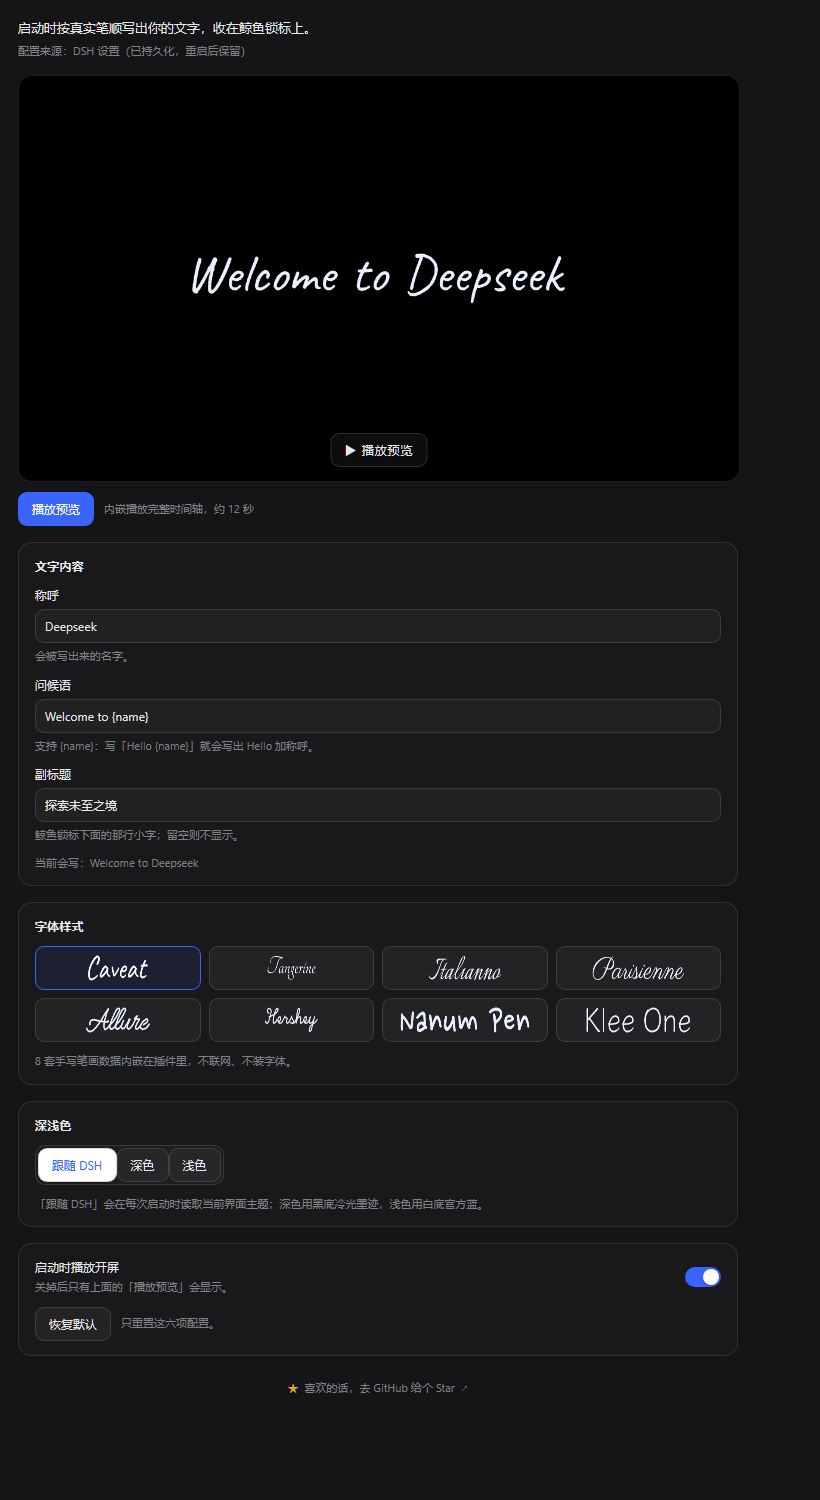
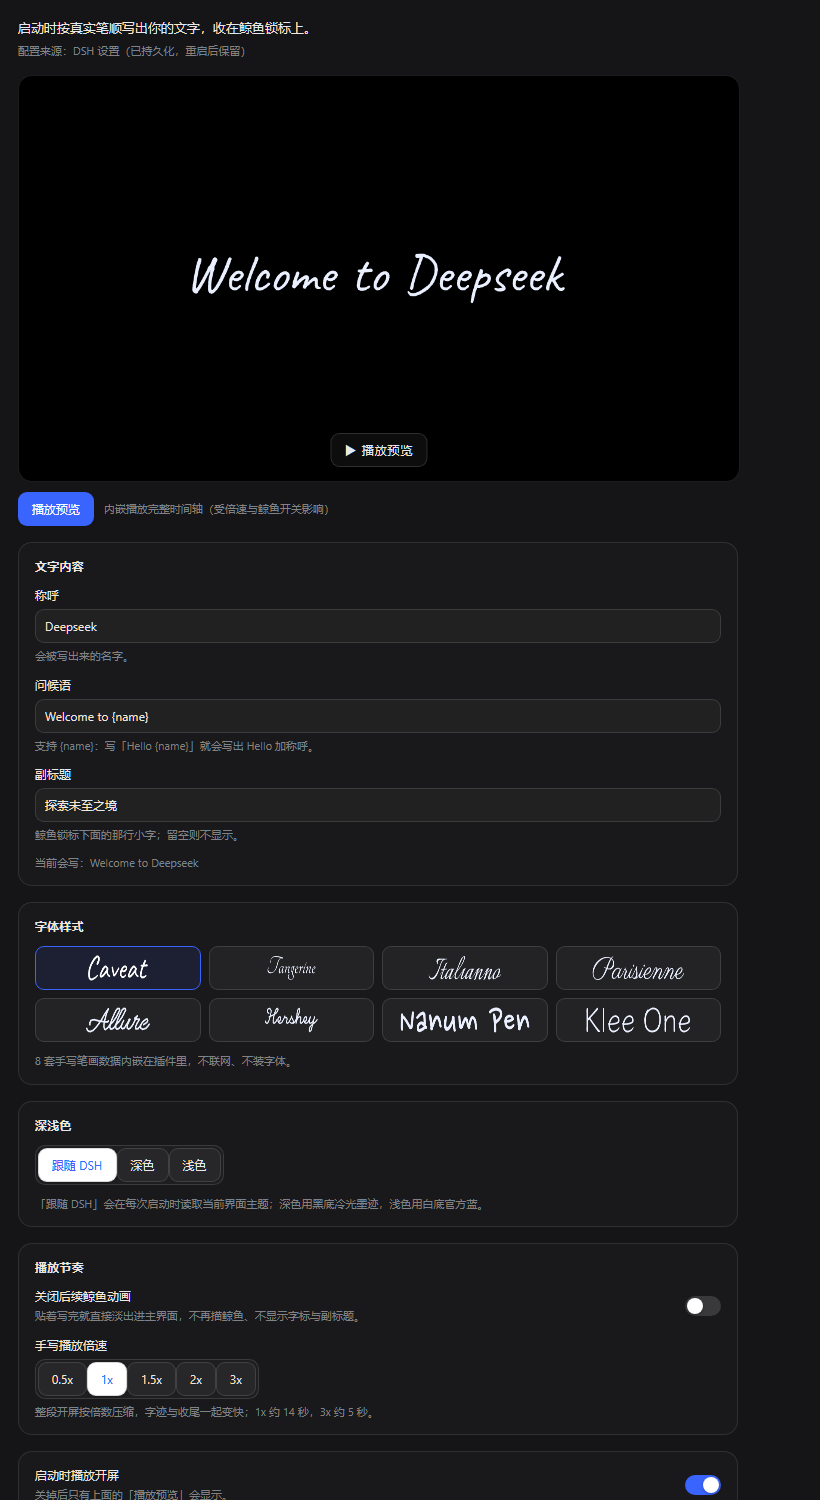
chore: 0.2.0
- 设置页新增「播放节奏」：关闭后续鲸鱼动画、手写播放倍速（0.5/1/1.5/2/3x）
- 修兜底字形硬边轮廓：非拉丁字符的发光从 strokeText 改为 shadowBlur，不再随系统字体变样
- 设置页截图更新；README 补非官方声明与新字段，安装段落区分桌面端与 web profile

diff --git a/README.md b/README.md
@@ -19,13 +19,15 @@ DeepSeek Harness（DSH）开屏插件：启动时按**真实笔顺**写出你的
 
 ## 安装
 
-npm 发布后：
+DSH Desktop：在 App 里打开 **插件** 页搜索 `dsh-ink-whale` 安装。桌面端的 profile 归 App 独占，命令行会被拒绝（`profile "desktop" is managed exclusively by the Electron application`）。
+
+`dsh web` 等其他 profile 用命令行：
 
 ```powershell
-dsh plugin --profile desktop add dsh-ink-whale
+dsh plugin --profile web add dsh-ink-whale
 ```
 
-或在 DSH 的「插件」页安装。改 Host 半或升级插件后重启 dsh；只改浏览器半刷新页面即可。本地源码：`pnpm install` → `npm run build`，再让插件管理器从本目录安装。
+升级时重新执行同一条命令（`dsh plugin` 是 pnpm 的透传，也可 `... add dsh-ink-whale@latest`）；桌面端在插件页卸载重装，或装 dshmarket 后用它的「更新」。改 Host 半或升级插件后重启 dsh；只改浏览器半刷新页面即可。本地源码：`pnpm install` → `npm run build`，再让插件管理器从本目录安装。
 
 ## 使用
 
